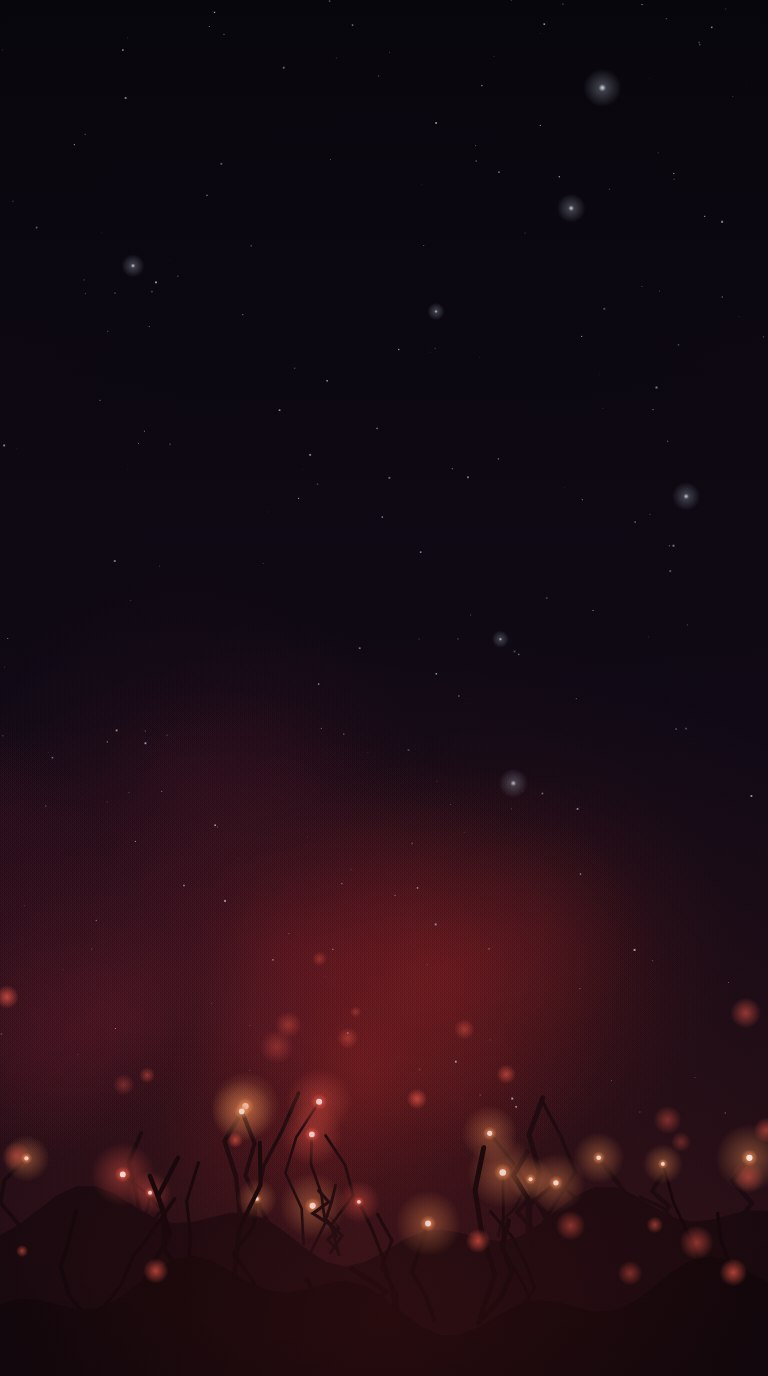
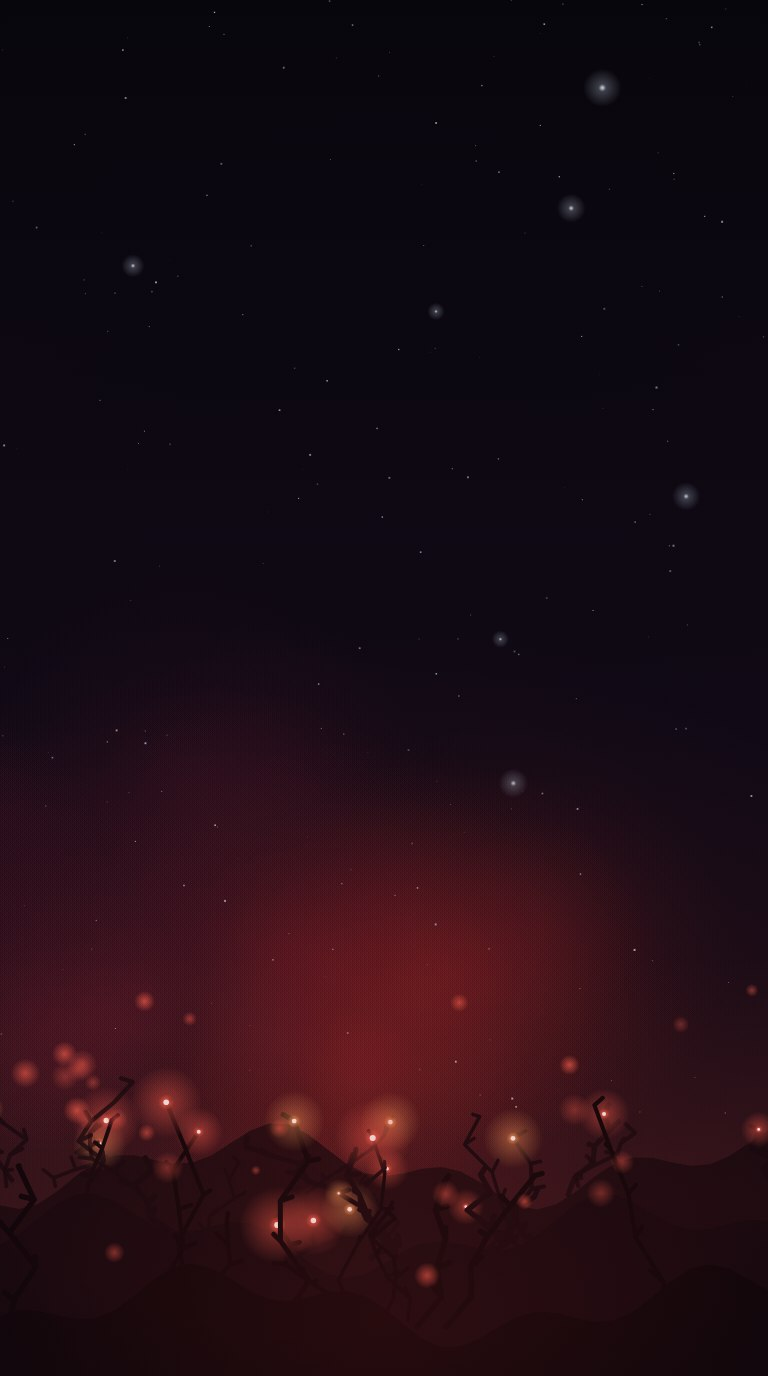
Major polish pass: living wisps, richer worlds, premium title screen
- Wisps are now creatures: blinking eyes with glints (per-piece rhythm),
  thorned cross-eyes on corrupted; color glyph kept as a badge for
  colorblind accessibility
- Projectiles fly with additive comet trails; attaching sends a squash
  wave through neighboring wisps; the core recoils on shot and idles
  with a gentle float
- Chain matches call out 'CHAIN xN'; cinematic vignette that blushes
  red and pulses as any ring nears overgrowth
- Title screen: gradient-glow wordmark, rotating light rays, drifting
  glowing petals
- Level select: winding dotted garden path connects the level nodes
- Baked backgrounds v2: fern fronds, bell flowers, brambles, three
  silhouette depth layers, horizon ambient glow
- Painted 1024px app icon generated (Higgsfield); img/fetch-art.sh
  localizes all AI art in one command
- Fix: crossOrigin broke local background fallback under file://
- Fix: win slow-motion delayed the result screen

Claude-Session: https://claude.ai/code/session_0161WAppdbzyojisr8zQGeva

diff --git a/game/js/core.js b/game/js/core.js
@@ -78,6 +78,7 @@
       this.projectiles = [];
       this.warnT = 0;
       this.shotSwayA = 0;
+      this.recoil = 0;
 
       // Aiming state
       this.aiming = false;
@@ -250,6 +251,7 @@
       this.current = this.next;
       this.next = this.drawColor();
       this.shotSwayA = Math.atan2(ny, nx);
+      this.recoil = 1;
       WB.audio.shoot();
       WB.vibrate(10);
     }
@@ -296,6 +298,7 @@
       }
 
       this.time += dt;
+      if (this.recoil > 0) this.recoil = Math.max(0, this.recoil - dt * 5);
       if (this.banner && (this.banner.t -= dt) <= 0) this.banner = null;
       if (this.surgeT > 0) this.surgeT -= dt;
       if (this.lullT > 0) this.lullT -= dt;
@@ -464,6 +467,12 @@
         scale: 0.4,
       });
       ring.pieces.push(p);
+      // Impact wave: nearby wisps squash and pop back.
+      for (const q of ring.pieces) {
+        if (q !== p && Math.abs(WB.angDiff(q.a, p.a)) < ring.minGap * 2.3) {
+          q.scale = Math.min(q.scale, 0.72);
+        }
+      }
       this.separate(ring);
       WB.audio.attach();
       WB.vibrate(12);
@@ -555,6 +564,9 @@
       WB.audio.match(this.combo);
       WB.vibrate(this.combo > 1 ? 30 : 18);
       WB.fx.shake(3 + Math.min(9, run.length));
+      if (this.combo >= 2) {
+        WB.fx.text(this.cx, this.cy - this.coreR * 2.2, 'CHAIN ×' + this.combo, '#8fd8ff', true);
+      }
       if (this.combo >= 3) WB.fx.slowMo(0.4);
 
       // Remove pieces; find the angular gap edges to pull together.
@@ -824,15 +836,52 @@
         }
       }
 
-      // Projectiles
+      // Projectiles: comet trail + orb
       for (const pr of this.projectiles) {
+        const col = pr.pulse ? '#ffffff' : (pr.prism ? '#e8e8ff' : WB.COLORS[pr.colorIdx].main);
+        ctx.save();
+        ctx.globalCompositeOperation = 'lighter';
+        const tg = ctx.createLinearGradient(pr.x, pr.y, pr.x - pr.vx * 0.055, pr.y - pr.vy * 0.055);
+        tg.addColorStop(0, col);
+        tg.addColorStop(1, 'rgba(0,0,0,0)');
+        ctx.strokeStyle = tg;
+        ctx.lineWidth = this.pieceR * 1.1;
+        ctx.lineCap = 'round';
+        ctx.globalAlpha = 0.55;
+        ctx.beginPath();
+        ctx.moveTo(pr.x, pr.y);
+        ctx.lineTo(pr.x - pr.vx * 0.055, pr.y - pr.vy * 0.055);
+        ctx.stroke();
+        ctx.restore();
         this.drawOrb(ctx, pr.x, pr.y, this.pieceR * 0.95,
           pr.pulse ? null : (pr.prism ? null : pr.colorIdx), pr.prism, pr.pulse, 1, 0);
       }
 
       this.drawCore(ctx, t);
       WB.fx.draw(ctx);
+      this.drawVignette(ctx);
       this.drawBanner(ctx);
+    }
+
+    // Cinematic edge shading; blushes red as any ring nears overgrowth.
+    drawVignette(ctx) {
+      const { w, h } = this;
+      let crowd = 0;
+      for (const ring of this.rings) {
+        if (this.boss && ring === this.boss.ring) continue;
+        crowd = Math.max(crowd, ring.pieces.length / ring.capacity);
+      }
+      const danger = WB.clamp((crowd - 0.75) / 0.25, 0, 1);
+      const v = ctx.createRadialGradient(w / 2, h * 0.46, Math.min(w, h) * 0.42, w / 2, h * 0.46, Math.max(w, h) * 0.78);
+      v.addColorStop(0, 'rgba(0,0,0,0)');
+      if (danger > 0) {
+        const pulse = 0.5 + 0.5 * Math.sin(this.time * 5.5);
+        v.addColorStop(1, 'rgba(' + Math.round(90 + 120 * danger) + ',20,40,' + (0.22 + 0.26 * danger * pulse) + ')');
+      } else {
+        v.addColorStop(1, 'rgba(4,6,16,0.32)');
+      }
+      ctx.fillStyle = v;
+      ctx.fillRect(0, 0, w, h);
     }
 
     drawAim(ctx) {
@@ -876,12 +925,14 @@
       if (p.boss) {
         this.drawBossSegment(ctx, x, y, p, s);
       } else {
-        this.drawOrb(ctx, x, y, this.pieceR * s, p.colorIdx, p.prism, false, 1, p.corrupt ? 1 : 0);
+        this.drawOrb(ctx, x, y, this.pieceR * s, p.colorIdx, p.prism, false, 1, p.corrupt ? 1 : 0, p.wobble);
       }
     }
 
     // The universal wisp renderer: colored orb + colorblind glyph.
-    drawOrb(ctx, x, y, r, colorIdx, prism, pulse, alpha, corrupt) {
+    // blinkPhase (optional) animates the creature's eyes; pass the piece's
+    // wobble so every wisp blinks on its own rhythm.
+    drawOrb(ctx, x, y, r, colorIdx, prism, pulse, alpha, corrupt, blinkPhase) {
       ctx.save();
       ctx.globalAlpha = alpha;
       let main, dark;
@@ -932,13 +983,45 @@
           ctx.stroke();
         }
       }
-      // Glyph (also readable on corrupted wisps — their "true color")
+      // Creature face: two sleepy glowing-garden eyes that blink.
+      if (!pulse && !corrupt && r > 6) {
+        const ph = blinkPhase != null ? blinkPhase : 0.8;
+        const blink = Math.pow(Math.max(0, Math.sin(ph * 0.6)), 24); // rare soft blink
+        const eyeH = r * 0.16 * (1 - blink * 0.9);
+        ctx.fillStyle = 'rgba(18,16,38,0.9)';
+        for (const side of [-1, 1]) {
+          ctx.beginPath();
+          ctx.ellipse(x + side * r * 0.34, y - r * 0.24, r * 0.14, Math.max(0.5, eyeH), 0, 0, WB.TAU);
+          ctx.fill();
+        }
+        if (blink < 0.5) {
+          ctx.fillStyle = 'rgba(255,255,255,0.8)';
+          for (const side of [-1, 1]) {
+            ctx.beginPath();
+            ctx.arc(x + side * r * 0.34 - r * 0.045, y - r * 0.29, r * 0.05, 0, WB.TAU);
+            ctx.fill();
+          }
+        }
+      }
+      if (corrupt && r > 6) {
+        // Cross thorned eyes
+        ctx.strokeStyle = 'rgba(255,220,240,0.75)';
+        ctx.lineWidth = Math.max(1.2, r * 0.09);
+        for (const side of [-1, 1]) {
+          const ex = x + side * r * 0.32, ey = y - r * 0.24, s = r * 0.13;
+          ctx.beginPath();
+          ctx.moveTo(ex - s, ey - s); ctx.lineTo(ex + s, ey + s);
+          ctx.moveTo(ex + s, ey - s); ctx.lineTo(ex - s, ey + s);
+          ctx.stroke();
+        }
+      }
+      // Glyph badge (also readable on corrupted wisps — their "true color")
       if (colorIdx != null && colorIdx >= 0 && !pulse && !prism) {
-        this.drawGlyph(ctx, x, y, r * 0.44, WB.COLORS[colorIdx].glyph,
+        this.drawGlyph(ctx, x, y + r * 0.3, r * 0.32, WB.COLORS[colorIdx].glyph,
           corrupt ? WB.COLORS[colorIdx].main : 'rgba(20,18,40,0.75)');
       }
       if (prism) {
-        this.drawGlyph(ctx, x, y, r * 0.44, 'star', 'rgba(255,255,255,0.9)');
+        this.drawGlyph(ctx, x, y + r * 0.3, r * 0.3, 'star', 'rgba(255,255,255,0.9)');
       }
       if (pulse) {
         ctx.strokeStyle = '#ffffff';
@@ -1013,7 +1096,11 @@
     }
 
     drawCore(ctx, t) {
-      const { cx, cy, coreR } = this;
+      const coreR = this.coreR;
+      // Recoil kick opposite the last shot + gentle idle float.
+      const k = WB.easeOutCubic(this.recoil || 0) * coreR * 0.16;
+      const cx = this.cx - Math.cos(this.shotSwayA) * k;
+      const cy = this.cy - Math.sin(this.shotSwayA) * k + Math.sin(t * 1.1) * 2.5;
       const target = this.level.target || 40;
       const energyK = this.level.obj === 'bloom' ? WB.clamp(this.energy / target, 0, 1)
         : WB.clamp(this.energy / 60, 0, 1);

diff --git a/game/js/ui.js b/game/js/ui.js
@@ -300,9 +300,62 @@
     // ----- title -------------------------------------------------------------
     drawTitle(ctx, w, h) {
       const cx = w / 2;
-      // Animated bloom emblem
       const ey = h * 0.23;
       const er = Math.min(w, h) * 0.11;
+
+      // Slow light rays breathing out of the emblem
+      if (!WB.save.data.settings.reduceMotion) {
+        ctx.save();
+        ctx.globalCompositeOperation = 'lighter';
+        ctx.translate(cx, ey);
+        for (let i = 0; i < 6; i++) {
+          ctx.save();
+          ctx.rotate(this.t * 0.06 + (i / 6) * WB.TAU);
+          const rg = ctx.createLinearGradient(0, 0, 0, -h * 0.55);
+          rg.addColorStop(0, 'rgba(120,200,255,0.06)');
+          rg.addColorStop(1, 'rgba(120,200,255,0)');
+          ctx.fillStyle = rg;
+          ctx.beginPath();
+          ctx.moveTo(0, 0);
+          ctx.lineTo(-h * 0.045, -h * 0.55);
+          ctx.lineTo(h * 0.045, -h * 0.55);
+          ctx.closePath();
+          ctx.fill();
+          ctx.restore();
+        }
+        ctx.restore();
+      }
+
+      // Drifting glowing petals
+      if (!this.petals) {
+        this.petals = [];
+        const rng = WB.rngFromSeed(31);
+        for (let i = 0; i < 9; i++) {
+          this.petals.push({
+            x: rng() * w, y: rng() * h, rot: rng() * WB.TAU,
+            vr: (rng() - 0.5) * 1.2, vy: 14 + rng() * 22, vx: (rng() - 0.5) * 10,
+            s: 5 + rng() * 7, hue: rng() < 0.5 ? 'rgba(126,203,232,' : 'rgba(242,126,207,',
+            a: 0.14 + rng() * 0.2,
+          });
+        }
+      }
+      const reduced = WB.save.data.settings.reduceMotion;
+      for (const p of this.petals) {
+        if (!reduced) {
+          p.y += p.vy / 60; p.x += (p.vx + Math.sin(this.t + p.rot) * 8) / 60; p.rot += p.vr / 60;
+          if (p.y > h + 20) { p.y = -20; p.x = Math.random() * w; }
+        }
+        ctx.save();
+        ctx.translate(p.x, p.y);
+        ctx.rotate(p.rot);
+        ctx.fillStyle = p.hue + p.a + ')';
+        ctx.beginPath();
+        ctx.ellipse(0, 0, p.s * 0.45, p.s, 0, 0, WB.TAU);
+        ctx.fill();
+        ctx.restore();
+      }
+
+      // Animated bloom emblem
       ctx.save();
       for (let i = 0; i < 6; i++) {
         const a = (i / 6) * WB.TAU + this.t * 0.25;
@@ -333,13 +386,23 @@
       }
       ctx.restore();
 
+      ctx.save();
       ctx.textAlign = 'center';
-      ctx.fillStyle = '#eef6ff';
-      ctx.font = '800 ' + Math.floor(Math.min(w * 0.13, 58)) + 'px ' + FONT;
+      const ts = Math.floor(Math.min(w * 0.13, 58));
+      ctx.font = '800 ' + ts + 'px ' + FONT;
+      const tg = ctx.createLinearGradient(0, h * 0.42 - ts, 0, h * 0.42 + 8);
+      tg.addColorStop(0, '#ffffff');
+      tg.addColorStop(0.55, '#cfeaff');
+      tg.addColorStop(1, '#8fb8ef');
+      ctx.shadowColor = 'rgba(120,200,255,0.55)';
+      ctx.shadowBlur = 24;
+      ctx.fillStyle = tg;
       ctx.fillText('WISPBLOOM', cx, h * 0.42);
-      ctx.fillStyle = 'rgba(190,210,255,0.75)';
+      ctx.shadowBlur = 0;
+      ctx.fillStyle = 'rgba(200,220,255,0.8)';
       ctx.font = '500 15px ' + FONT;
       ctx.fillText('Every match reshapes the sky', cx, h * 0.42 + 26);
+      ctx.restore();
 
       const bw = Math.min(w * 0.72, 300), bx = cx - bw / 2;
       let by = h * 0.52;
@@ -380,6 +443,25 @@
       const gridW = cols * cellW;
       const x0 = cx - gridW / 2;
       const y0 = 92;
+      // Winding garden path connecting the level nodes
+      ctx.save();
+      ctx.strokeStyle = 'rgba(140,170,240,0.28)';
+      ctx.lineWidth = 3;
+      ctx.setLineDash([1, 9]);
+      ctx.lineCap = 'round';
+      ctx.beginPath();
+      for (let i = 0; i < WB.LEVELS.length; i++) {
+        const px = x0 + (i % cols) * cellW + cellW / 2;
+        const py = y0 + Math.floor(i / cols) * cellH + cellH / 2 - 8;
+        if (i === 0) ctx.moveTo(px, py);
+        else {
+          const qx = x0 + ((i - 1) % cols) * cellW + cellW / 2;
+          const qy = y0 + Math.floor((i - 1) / cols) * cellH + cellH / 2 - 8;
+          ctx.bezierCurveTo(qx, qy + cellH * 0.42, px, py - cellH * 0.42, px, py);
+        }
+      }
+      ctx.stroke();
+      ctx.restore();
       for (let i = 0; i < WB.LEVELS.length; i++) {
         const col = i % cols, row = Math.floor(i / cols);
         const x = x0 + col * cellW + cellW / 2;
@@ -551,8 +633,9 @@
       const g = this.game;
       if (!g) return;
       if (!this.paused) {
-        // Slow-motion effect scales simulation time only.
-        g.update(dt * WB.fx.slowFactor);
+        // Slow-motion scales simulation time only — but once the level is
+        // decided, run real time so the result screen isn't delayed.
+        g.update(dt * (g.result ? 1 : WB.fx.slowFactor));
       }
       ctx.save();
       WB.fx.applyShake(ctx);

diff --git a/game/js/main.js b/game/js/main.js
@@ -25,7 +25,6 @@
   WB.BG = {};
   Object.keys(BG_REMOTE).forEach((key) => {
     const img = new Image();
-    img.crossOrigin = 'anonymous';
     if (window.WB_BG_DATA && window.WB_BG_DATA[key]) {
       img.src = window.WB_BG_DATA[key];
     } else {

diff --git a/README.md b/README.md
@@ -118,8 +118,9 @@ intended upgrade points:
    loads AI-painted art (generated with Higgsfield, hosted on its CDN) and
    falls back to the baked images in `game/img/` when offline
    (`main.js → WB.BG`, `ui.js → drawBgImage`). To make the AI art permanent,
-   download the four `BG_REMOTE` URLs in `main.js` over the baked
-   `img/bg-*.jpg` files (the extension mismatch is harmless to browsers).
+   run `bash game/img/fetch-art.sh` once on a machine with internet access —
+   it also downloads the painted 1024×1024 app icon (`app-icon.png`) for
+   Android Studio's Image Asset wizard.
    Final hand-painted parallax illustrations remain the end goal.
 3. **SFX & music** — WebAudio synthesis (`audio.js`). Replace with recorded
    layered samples and a composed ambient track; the call sites
